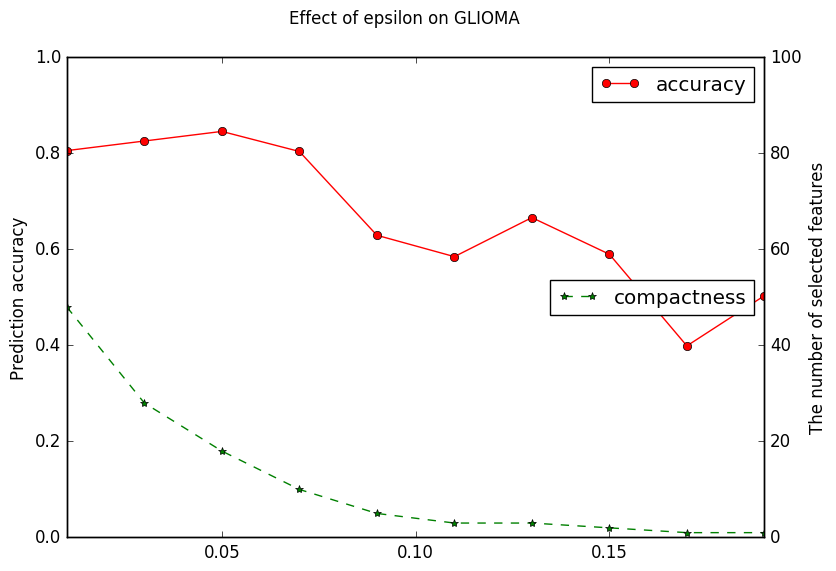
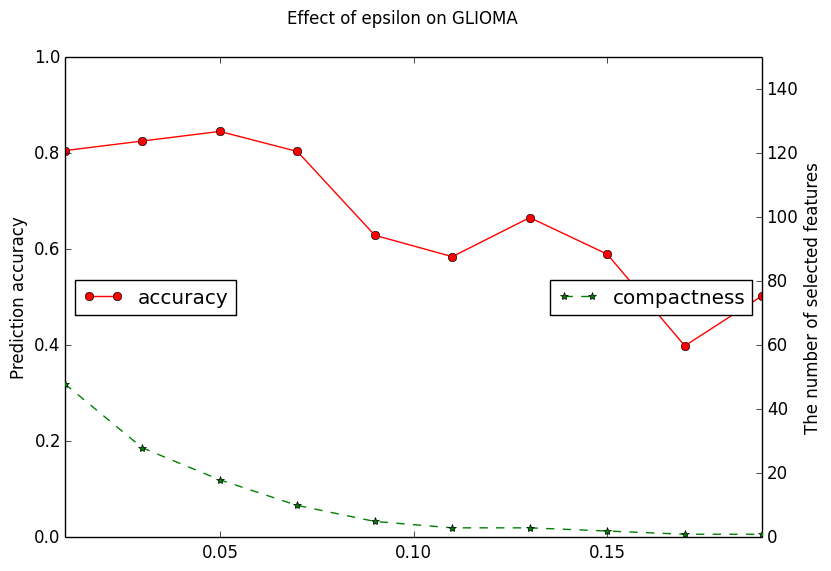
repaint gene/all_result/epsilon/*.png

diff --git a/datas/threshold/aggr_4_png.py b/datas/threshold/aggr_4_png.py
@@ -1,0 +1,44 @@
+
+import numpy as np
+from matplotlib import image
+
+
+def merge_image(img1, img2, _axis=1):
+    height = min(img1.shape[0], img2.shape[0])
+    width = min(img1.shape[1], img2.shape[1])
+    img1 = img1[:height, :width]
+    img2 = img2[:height, :width]
+    print img1.shape, img2.shape
+    img = np.concatenate((img1, img2), axis=_axis)
+    return img
+
+
+def read_image(nm1, nm2):
+    img1 = image.imread("%s.png" % nm1)
+    img2 = image.imread("%s.png" % nm2)
+    return merge_image(img1, img2)
+
+
+def aggr(image_names, wfname):
+    imgs = []
+    for nms in image_names.split(","):
+        nm1, nm2 = nms.split()
+        type1, name1 = nm1.split('.')
+        type2, name2 = nm2.split('.')
+        nm1 = "../%s/all_result/threshold/%s_one" % (type1, name1)
+        nm2 = "../%s/all_result/threshold/%s_one" % (type2, name2)
+        imgs.append(read_image(nm1, nm2))
+    img = merge_image(imgs[0], imgs[1], 0)
+    image.imsave("%s.png" % wfname, img)
+
+
+def main():
+    img_names = "gene.SMK_CAN_187 gene.GLIOMA,gene.Prostate_GE other.arcene"
+    aggr(img_names, "aggr_vertical")
+
+    # img_names = "ALLAML GLI_85,GLIOMA orlraws10P,RELATHE warpPIE10P"
+    # aggr(img_names, "aggr_vertical_other")
+
+
+if __name__ == '__main__':
+    main()

diff --git a/datas/epsilon/aggr_4_png.py b/datas/epsilon/aggr_4_png.py
@@ -1,0 +1,44 @@
+
+import numpy as np
+from matplotlib import image
+
+
+def merge_image(img1, img2, _axis=1):
+    height = min(img1.shape[0], img2.shape[0])
+    width = min(img1.shape[1], img2.shape[1])
+    img1 = img1[:height, :width]
+    img2 = img2[:height, :width]
+    print img1.shape, img2.shape
+    img = np.concatenate((img1, img2), axis=_axis)
+    return img
+
+
+def read_image(nm1, nm2):
+    img1 = image.imread("%s.png" % nm1)
+    img2 = image.imread("%s.png" % nm2)
+    return merge_image(img1, img2)
+
+
+def aggr(image_names, wfname):
+    imgs = []
+    for nms in image_names.split(","):
+        nm1, nm2 = nms.split()
+        type1, name1 = nm1.split('.')
+        type2, name2 = nm2.split('.')
+        nm1 = "../%s/all_result/epsilon/%s_one" % (type1, name1)
+        nm2 = "../%s/all_result/epsilon/%s_one" % (type2, name2)
+        imgs.append(read_image(nm1, nm2))
+    img = merge_image(imgs[0], imgs[1], 0)
+    image.imsave("%s.png" % wfname, img)
+
+
+def main():
+    img_names = "gene.SMK_CAN_187 gene.GLIOMA,gene.Prostate_GE other.arcene"
+    aggr(img_names, "aggr_vertical")
+
+    # img_names = "ALLAML GLI_85,GLIOMA orlraws10P,RELATHE warpPIE10P"
+    # aggr(img_names, "aggr_vertical_other")
+
+
+if __name__ == '__main__':
+    main()

diff --git a/datas/gene/all_result/epsilon/draw_epsilon.py b/datas/gene/all_result/epsilon/draw_epsilon.py
@@ -28,10 +28,10 @@ def draw(cls, nfs, fname):
     ax1.set_ylabel('Prediction accuracy')
     ax2.set_ylabel('The number of selected features')
     cls.plot(ax=ax1, style='ro-', ylim=(0.0, 1.0), xlim=(0.01, 0.19))
-    nfs.plot(ax=ax2, style='g*--', ylim=(0, 100), xlim=(0.01, 0.19))
+    nfs.plot(ax=ax2, style='g*--', ylim=(0, 150), xlim=(0.01, 0.19))
     plt.xlabel('epsilon')
-    ax1.legend(loc=0)
-    ax2.legend(loc=7)
+    ax1.legend(loc="center left")
+    ax2.legend(loc="center right")
     fig.suptitle('Effect of epsilon on %s'%fname)
 
     fig.set_size_inches(9, 6)
